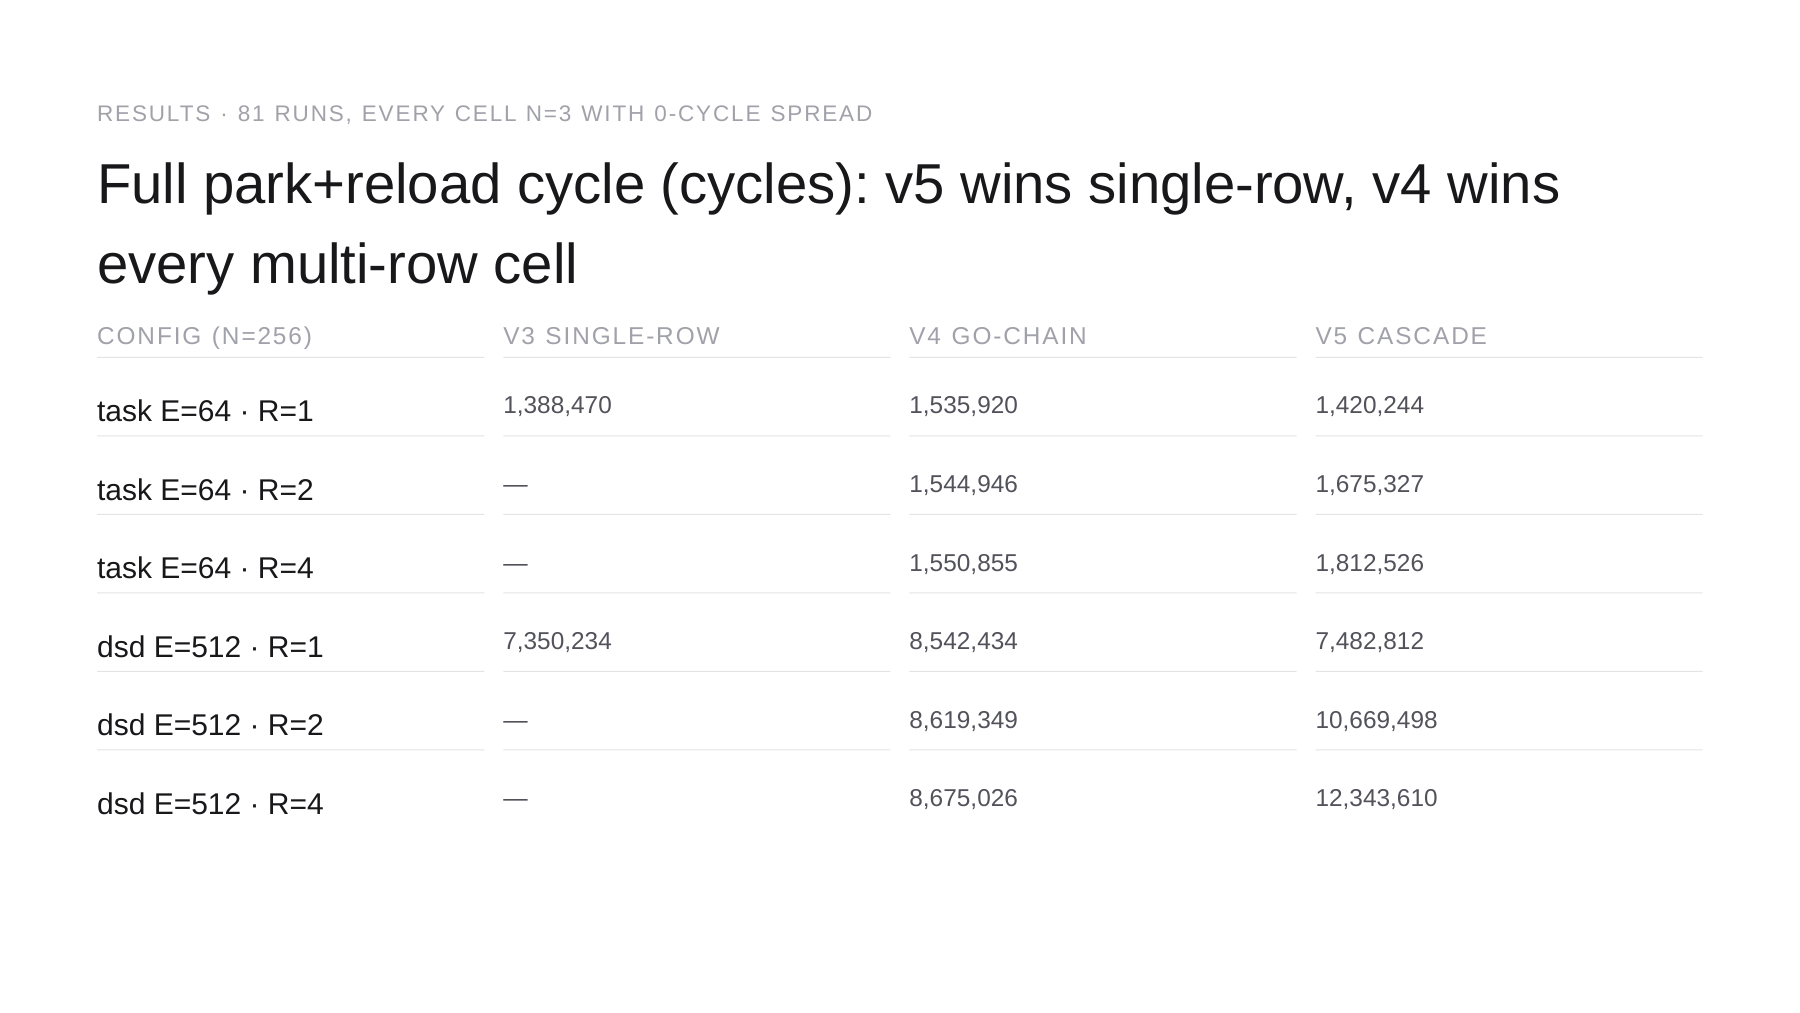
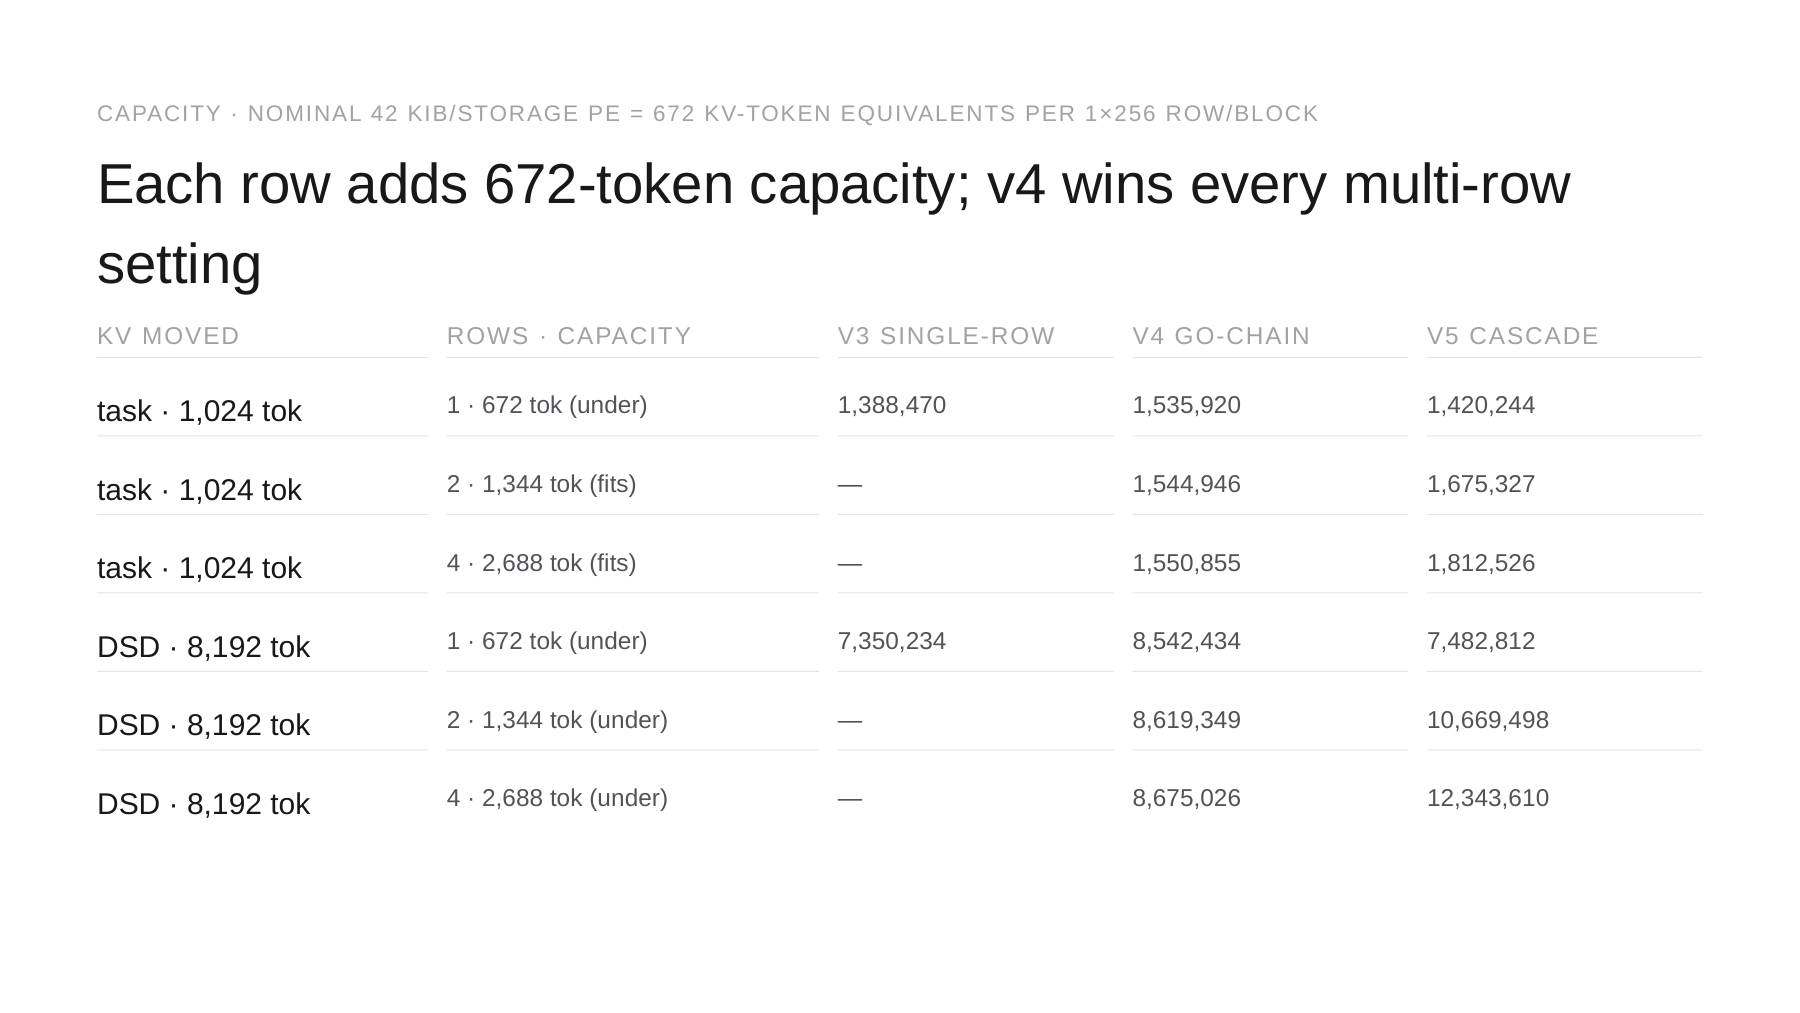
slide sync

diff --git a/projects/WaferEngine-staging/meetings/2026-08-24-src/REPORT.md b/projects/WaferEngine-staging/meetings/2026-08-24-src/REPORT.md
@@ -105,6 +105,18 @@ gaps, bounded ~2·bh cyc each); v5/v3 metric = P0 full-cycle TSC.
 
 Full-cycle cycles (mean of n=3):
 
+Slide 4 presents the benchmark axes in model-facing units rather than the
+internal `N/E/R` notation. The fixed compute-column height is `N=256` PEs.
+At `lpb=4`, `E=64` u32 words per compute PE represents a 1,024-token KV
+history and `E=512` represents 8,192 tokens. `R` is the number of 1×256
+storage rows. The current capacity label is explicitly **nominal analytical
+sizing, not compile-fit evidence**: 42 KiB per storage PE gives 672 logical
+KV-token equivalents per row/block, so `R=1/2/4` exposes 672/1,344/2,688
+token-equivalents. Consequently, 1,024 tokens nominally needs two rows and
+8,192 tokens needs about thirteen. These demos verify movement and do not
+retain the full payload, so capacity-undersized cells remain valid movement
+measurements but are not deployable storage profiles.
+
 task | E | v3 | v5 R=1 | v5 R=2 | v5 R=4 | v4 R=1 | v4 R=2 | v4 R=4
 ---|---|---|---|---|---|---|---|---
  | 4 | 63,157 | 63,609 | 101,153 | 117,080 | – | – | –

diff --git a/projects/WaferEngine-staging/memory/inbox/2026-08-24-m1-s4-c1-fixed-communication-device-negative.md b/projects/WaferEngine-staging/memory/inbox/2026-08-24-m1-s4-c1-fixed-communication-device-negative.md
@@ -47,3 +47,6 @@
 - `docs/analysis/m1-s4-c1-workload-step-review.md`
 - `cs3-c1-s256-manual-comparison/run-20260824T0340Z/`
 - `tools/m1_s4/collect_c1_s256_manual_comparison.py`
+- `docs/slides/2026-08-24-m1-s4-ragged-c1/m1-s4-ragged-c1-weekly-insert-2026-08-24.pptx`
+- `docs/slides/2026-08-24-m1-s4-ragged-c1/deck.json`
+- ContextBase: <https://context.ed-aisys.com/doc/2026-08-23-study-review-m1-s4-c1-and-workload-shape-selW5g7f72>
